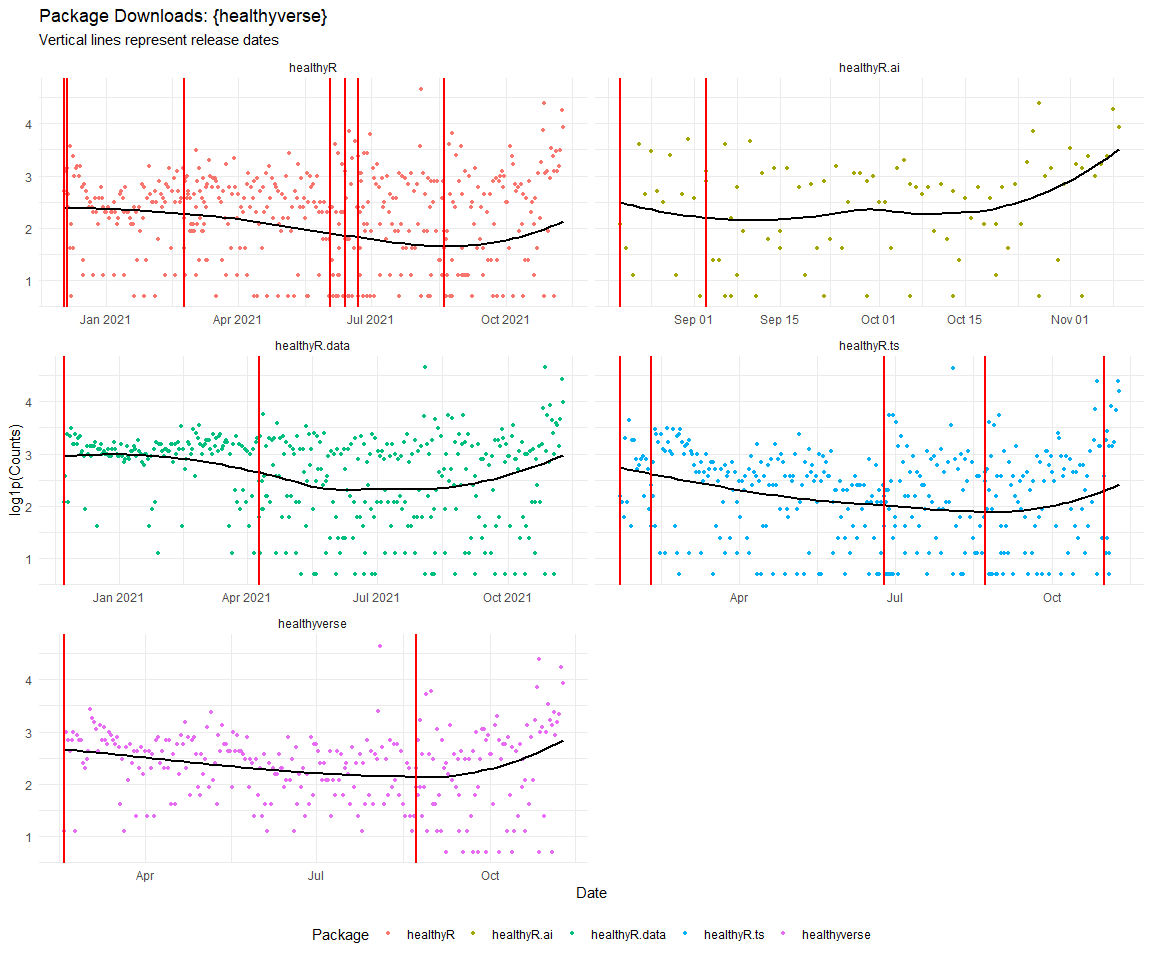
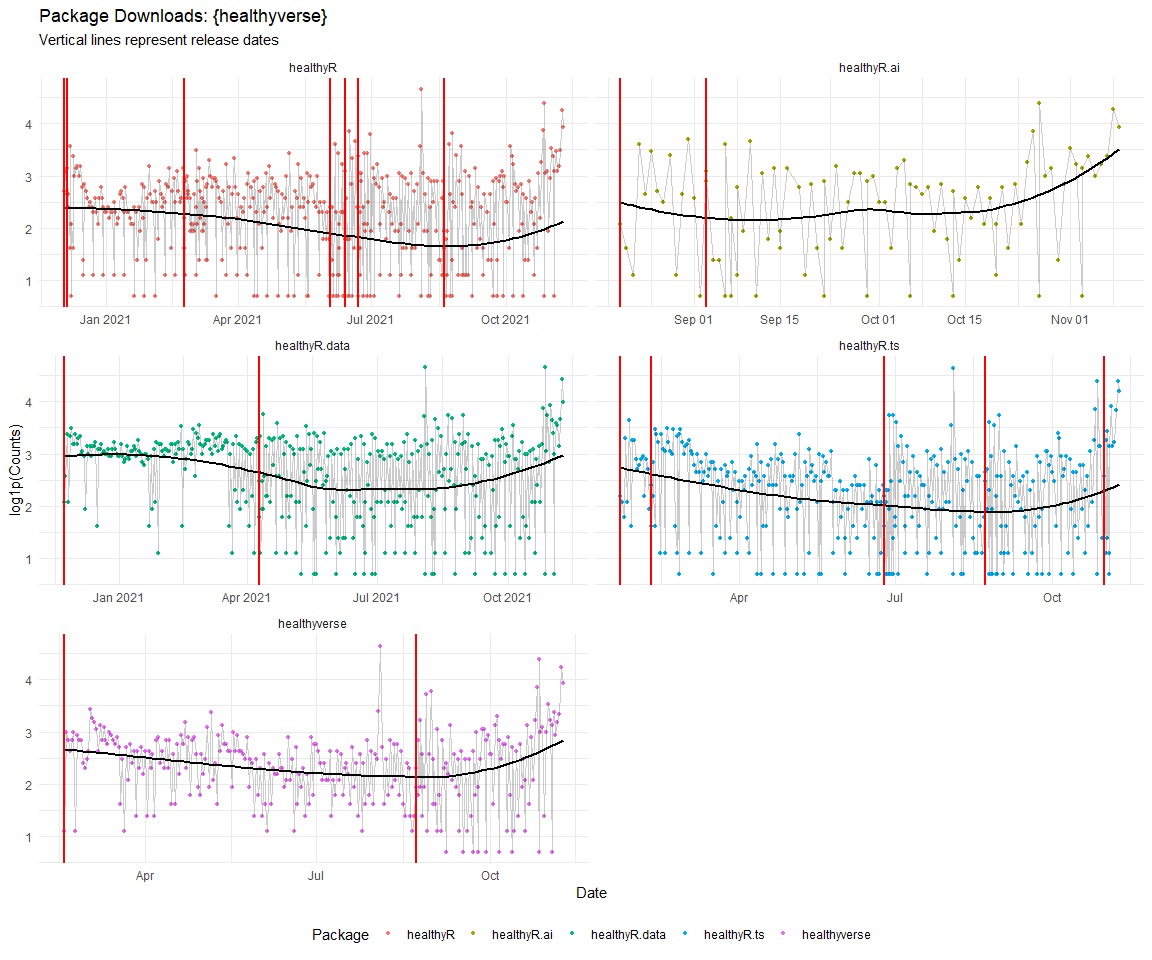
update

diff --git a/README.md b/README.md
@@ -177,7 +177,7 @@ dl_tbl %>%
 ggplot(aes(date, log1p(N))) +
   theme_bw() +
   geom_point(aes(group = package, color = package), size = 1) +
-  # geom_line() +
+  geom_line(size = 0.5, color = "black", alpha = .2) +
   ggtitle(paste("Package Downloads: {healthyverse}")) +
   geom_smooth(method = "loess", color = "black",  se = FALSE) +
   geom_vline(
